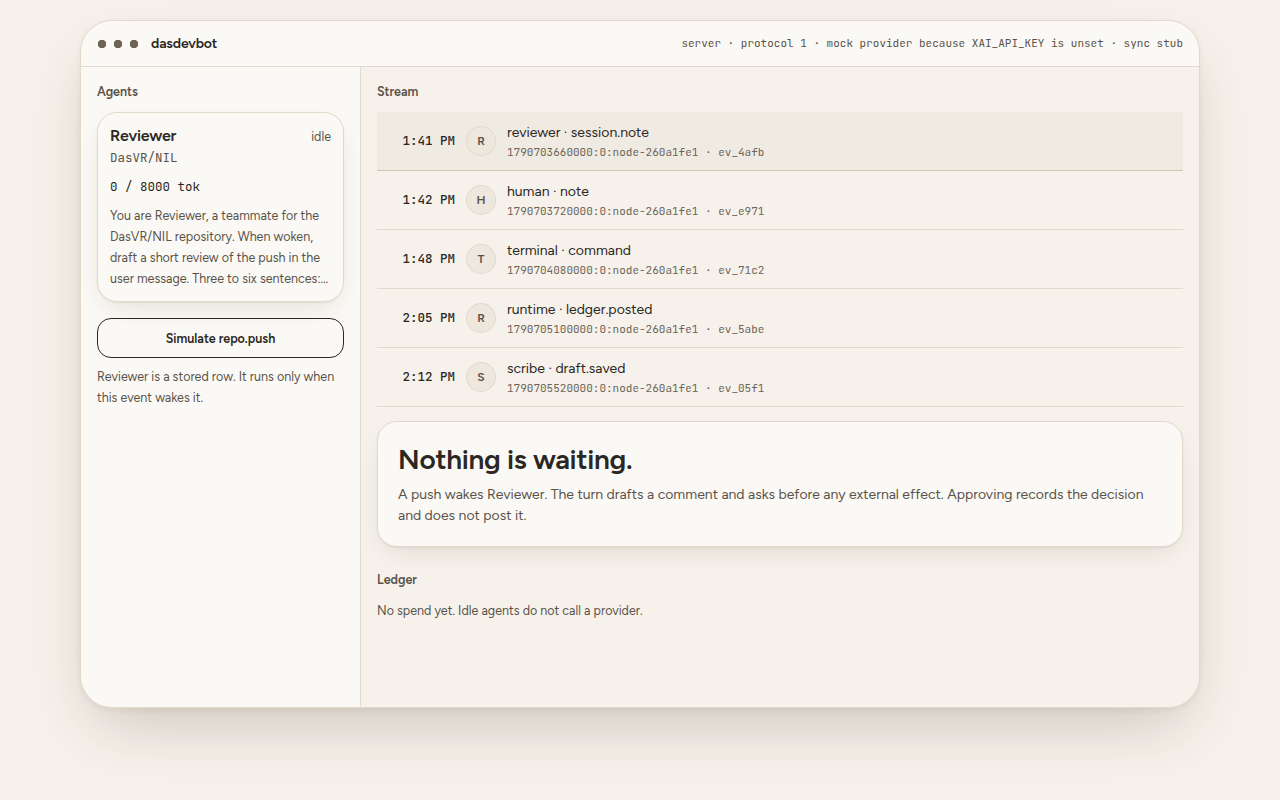
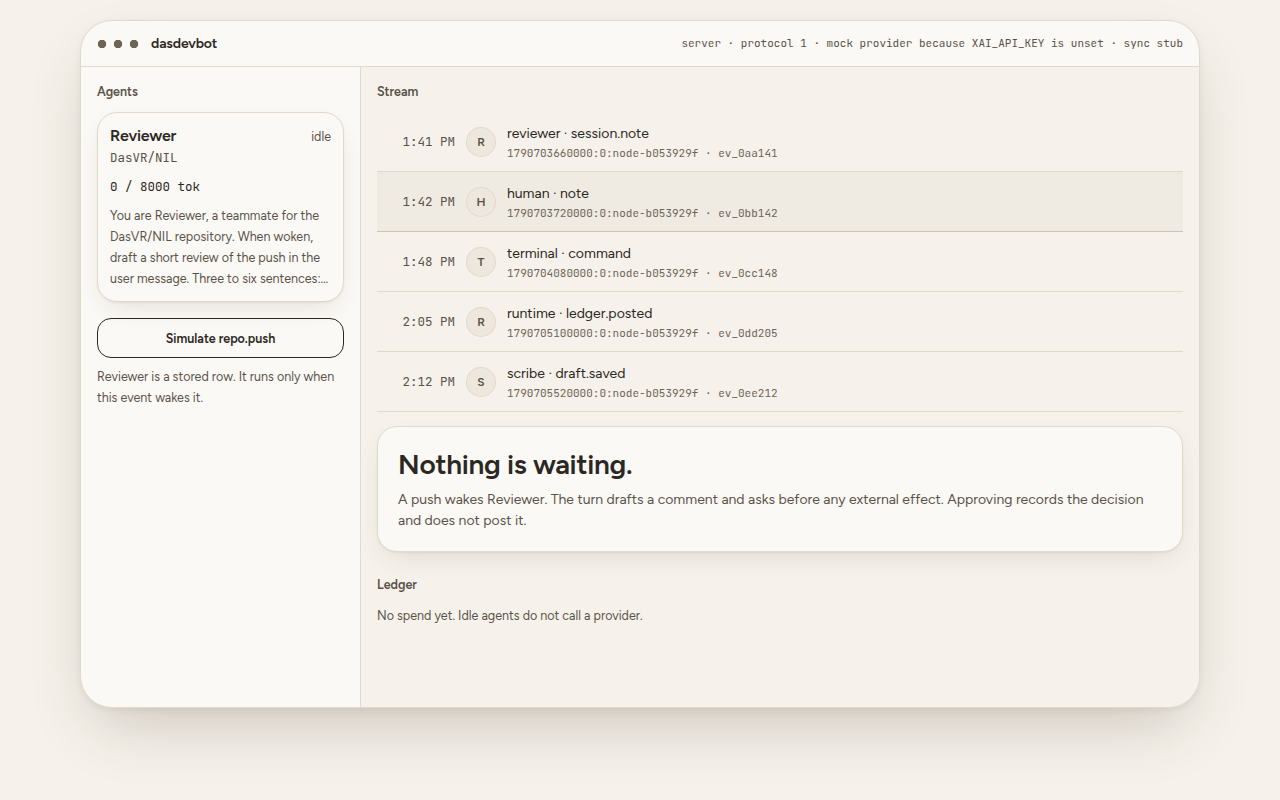
Add a forced-push fixture and land stream rows at 60px

diff --git a/apps/desktop/src/App.svelte b/apps/desktop/src/App.svelte
@@ -205,8 +205,15 @@
 
   function tokenMs(name: string, fallback: number): number {
     const raw = getComputedStyle(document.documentElement).getPropertyValue(name).trim();
-    const value = Number.parseFloat(raw);
-    return Number.isFinite(value) ? value : fallback;
+    const match = /^(-?\d*\.?\d+)(ms|s)?$/.exec(raw);
+    if (!match) {
+      return fallback;
+    }
+    const value = Number(match[1]);
+    if (!Number.isFinite(value)) {
+      return fallback;
+    }
+    return match[2] === "s" ? value * 1000 : value;
   }
 
   function prefersReducedMotion(): boolean {
@@ -678,7 +685,9 @@
     grid-template-columns: 76px 28px minmax(0, 1fr);
     column-gap: 12px;
     align-items: center;
-    padding: 10px 2px 11px;
+    padding: 10px 2px 10px;
+    /* 37px copy + 20px padding + the 1px rule is 58. Min-height matches the 60px receipt. */
+    min-height: 60px;
     border: 0;
     border-bottom: 1px solid var(--hairline);
     border-radius: 0;
@@ -695,8 +704,8 @@
     font-family: var(--font-machine);
     font-size: var(--t-meta);
     line-height: var(--lh-meta);
-    font-weight: var(--w-medium);
-    color: var(--ink-1);
+    font-weight: var(--w-regular);
+    color: var(--ink-2);
     text-align: right;
     font-variant-numeric: tabular-nums;
   }

diff --git a/apps/desktop/src/lib/api.ts b/apps/desktop/src/lib/api.ts
@@ -251,7 +251,7 @@ export function shortEventId(id: string): string {
     return id;
   }
   const compact = id.replace(/-/g, "");
-  return `ev_${compact.slice(-4)}`;
+  return `ev_${compact.slice(-6)}`;
 }
 
 export function isTextEntry(target: EventTarget | null): boolean {
@@ -276,7 +276,8 @@ export async function getSnapshot(): Promise<Snapshot> {
   return (await response.json()) as Snapshot;
 }
 
-export async function emitPush(): Promise<void> {
+/** Demo `repo.push`. `forced` asks for a destructive force-push instead of a PR comment. */
+export async function emitPush(forced = false): Promise<void> {
   const response = await fetch("/v1/events", {
     method: "POST",
     headers: { "Content-Type": "application/json" },
@@ -288,6 +289,7 @@ export async function emitPush(): Promise<void> {
         ref: "phase0",
         subject: "simulated push",
         note: "phase 0 attaches no diff",
+        forced,
       },
       idempotency_key: `ui-${crypto.randomUUID()}`,
     }),

diff --git a/crates/daemon/src/turn.rs b/crates/daemon/src/turn.rs
@@ -132,11 +132,16 @@ fn run_turn(app: &App, job: &Job) -> Result<()> {
     if !store.heartbeat_at(&job.id, &app.worker_id, wall_ms(), LEASE_MS)? {
         return Ok(());
     }
-    let grant = store.has_grant(&prepared.agent_id, EffectClass::External.as_str())?;
+    let class = if prepared.forced {
+        EffectClass::Destructive
+    } else {
+        EffectClass::External
+    };
+    let grant = store.has_grant(&prepared.agent_id, class.as_str())?;
     let outcome = decide(
         GateInput {
             grant,
-            class: EffectClass::External,
+            class,
             budget_remaining: true,
             tainted: prepared.tainted,
         },
@@ -145,7 +150,7 @@ fn run_turn(app: &App, job: &Job) -> Result<()> {
     if outcome != dasdevbot_core::GateOutcome::Ask {
         let payload = json!({
             "job_id": job.id,
-            "effect_class": "external",
+            "effect_class": class.as_str(),
             "outcome": "deny",
             "tainted": prepared.tainted,
         })
@@ -165,10 +170,28 @@ fn run_turn(app: &App, job: &Job) -> Result<()> {
         store.fail_leased(&job.id, &app.worker_id)?;
         return Ok(());
     }
+    let action = if prepared.forced {
+        "force_push"
+    } else {
+        "post_pr_comment"
+    };
+    let purpose = if prepared.forced {
+        format!(
+            "Force-push {}. This rewrites the remote branch.",
+            prepared.evidence_ref
+        )
+    } else {
+        prepared.purpose.clone()
+    };
+    let draft = if prepared.forced {
+        format!("git push --force origin {}", prepared.evidence_ref)
+    } else {
+        completion.text.clone()
+    };
     let request_payload = json!({
         "job_id": job.id,
-        "action": "post_pr_comment",
-        "effect_class": "external",
+        "action": action,
+        "effect_class": class.as_str(),
         "tainted": prepared.tainted,
         "provider": completion.provider,
     })
@@ -187,10 +210,10 @@ fn run_turn(app: &App, job: &Job) -> Result<()> {
         job_id: job.id.clone(),
         agent_id: prepared.agent_id.clone(),
         thread_id: prepared.thread_id,
-        effect_class: "external".into(),
-        action: "post_pr_comment".into(),
-        purpose: prepared.purpose,
-        draft: completion.text,
+        effect_class: class.as_str().into(),
+        action: action.into(),
+        purpose,
+        draft,
         evidence: prepared.evidence,
         evidence_repo: prepared.evidence_repo,
         evidence_ref: prepared.evidence_ref,
@@ -229,6 +252,7 @@ struct Prepared {
     purpose: String,
     thread_id: String,
     tainted: bool,
+    forced: bool,
 }
 
 fn prepare(store: &mut Store, app: &App, job: &Job) -> Result<Option<Prepared>> {
@@ -267,6 +291,10 @@ fn prepare(store: &mut Store, app: &App, job: &Job) -> Result<Option<Prepared>> 
         .get("tainted")
         .and_then(|v| v.as_bool())
         .unwrap_or(true);
+    let forced = payload
+        .get("forced")
+        .and_then(|value| value.as_bool())
+        .unwrap_or(false);
     let kind_name = body.get("kind").and_then(|v| v.as_str()).unwrap_or("event");
     let event_id = body.get("event_id").and_then(|v| v.as_str()).unwrap_or("");
     let repo = payload
@@ -295,6 +323,7 @@ fn prepare(store: &mut Store, app: &App, job: &Job) -> Result<Option<Prepared>> 
         ),
         thread_id,
         tainted,
+        forced,
     }))
 }
 

diff --git a/crates/daemon/src/server.rs b/crates/daemon/src/server.rs
@@ -665,6 +665,57 @@ mod tests {
         assert!(!kinds.contains(&"approval.committed"));
     }
 
+    #[test]
+    fn forced_push_snapshot_effect_class_is_destructive() {
+        let dir = std::env::temp_dir().join(format!("dasdevbot-forced-{}", uuid::Uuid::new_v4()));
+        fs::create_dir_all(&dir).unwrap();
+        let (app, rx) = crate::build_app(
+            Config {
+                data: dir.join("db.sqlite"),
+                web_root: None,
+                role: "server".into(),
+            },
+            Box::new(MockProvider::new()),
+        )
+        .unwrap();
+        spawn_worker(Arc::clone(&app), rx);
+        let server = Server::http("127.0.0.1:0").unwrap();
+        let addr = server.server_addr().to_string();
+        std::thread::spawn(move || serve_incoming(app, server));
+
+        let agent = ureq::AgentBuilder::new()
+            .timeout(Duration::from_secs(2))
+            .build();
+        let health = wait_ok(&agent, &format!("http://{addr}/v1/health"));
+        assert_eq!(health["ready"], true);
+
+        let emitted = agent
+            .post(&format!("http://{addr}/v1/events"))
+            .send_json(json!({
+                "source": "demo",
+                "kind": "repo.push",
+                "payload": {
+                    "repo": "DasVR/NIL",
+                    "ref": "phase0",
+                    "subject": "simulated push",
+                    "forced": true
+                },
+                "idempotency_key": "ipc-forced-1"
+            }))
+            .unwrap()
+            .into_json::<EmitResponse>()
+            .unwrap();
+        assert!(emitted.created);
+        assert_eq!(emitted.jobs.len(), 1);
+
+        let snap = wait_approval(&agent, &format!("http://{addr}/v1/snapshot"));
+        let approval = &snap["approvals"][0];
+        assert_eq!(approval["effect_class"], "destructive");
+        assert_eq!(approval["action"], "force_push");
+        assert_eq!(approval["draft"], "git push --force origin phase0");
+        assert_eq!(approval["status"], "pending");
+    }
+
     fn wait_ok(agent: &ureq::Agent, url: &str) -> serde_json::Value {
         let start = Instant::now();
         loop {

diff --git a/crates/daemon/src/store.rs b/crates/daemon/src/store.rs
@@ -1333,7 +1333,7 @@ fn seed(conn: &Connection) -> Result<()> {
         "INSERT OR IGNORE INTO rules (id, kind, agent_id) VALUES ('rule-repo-push-reviewer', 'repo.push', 'reviewer')",
         [],
     )?;
-    for class in ["read", "write_local", "external"] {
+    for class in ["read", "write_local", "external", "destructive"] {
         conn.execute(
             "INSERT OR IGNORE INTO grants (agent_id, effect_class) VALUES ('reviewer', ?1)",
             [class],
